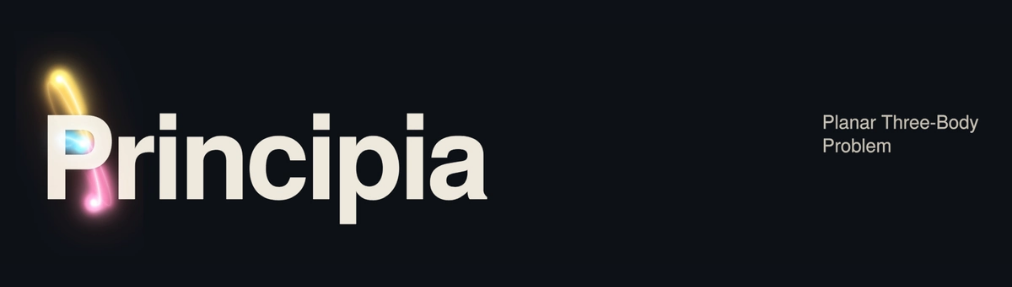
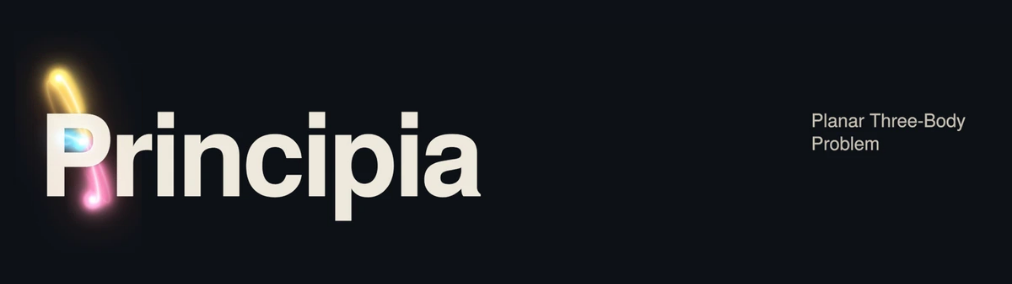
Brand: title WebPs rebuilt with equal insets (page-colour border checked in the encoder), README renders at three widths and three page colours

diff --git a/brand/code/build.py b/brand/code/build.py
@@ -183,8 +183,8 @@ def _encode_job(args):
     import encode
     kind, a = args
     if kind == 'webp':
-        frames, fps, dst = a
-        return dst, encode.webp(frames, fps, 15, WEBP_WIDTH, dst, limit=WEBP_LIMIT)
+        frames, fps, dst, border = a
+        return dst, encode.webp(frames, fps, 15, WEBP_WIDTH, dst, limit=WEBP_LIMIT, border=border)
     getattr(encode, kind)(*a)
     return None, None
 
@@ -223,12 +223,12 @@ def part_videos(out, only=None, workers=None):
                         ('webm', (frames, fps, f'{dst}/{stem}-transparent.webm')),
                         ('gif', (frames, fps, w, h, theme, gfps, gw, f'{dst}/{stem}.gif'))]
         if 'subtitle' in v:
-            encode_jobs.append(('webp', (frames + '-padded', fps, f'{dst}/{stem}.webp')))
+            encode_jobs.append(('webp', (frames + '-padded', fps, f'{dst}/{stem}.webp', None)))
     for name, v, bd in GITHUB:
         if sel(name):
             frames = os.path.join(out, 'work', 'frames', f'title-2d-subtitle-{name}')
             os.makedirs(os.path.join(out, 'titles'), exist_ok=True)
-            encode_jobs.append(('webp', (frames, 30, os.path.join(out, 'titles', f'principia-title-2d-subtitle-{name}.webp'))))
+            encode_jobs.append(('webp', (frames, 30, os.path.join(out, 'titles', f'principia-title-2d-subtitle-{name}.webp'), (tuple(int(bd.lstrip('#')[i:i + 2], 16) for i in (0, 2, 4)), 1))))
     log('encoding', len(encode_jobs), 'files')
     with ProcessPoolExecutor(workers) as ex:
         for dst, res in ex.map(_encode_job, encode_jobs):

diff --git a/brand/code/encode.py b/brand/code/encode.py
@@ -39,7 +39,7 @@ def gif(frames, fps, w, h, theme, gif_fps, gif_w, out):
     _run(_inputs(frames, fps, w, h, BG[theme]) + ['-filter_complex', flt, '-loop', '0', out])
 
 
-def webp(frames, fps, out_fps, width, out, limit=None, quality=None):
+def webp(frames, fps, out_fps, width, out, limit=None, quality=None, border=None):
     """Animated lossy WebP written with Pillow (ffmpeg's libwebp_anim cannot lower the alpha quality, and
     losslessly kept alpha alone is more than 4 MB). Colour and alpha share one quality number. With limit
     (bytes) the highest quality (1 to 100) whose file fits is used; the result is (quality, bytes).
@@ -70,4 +70,14 @@ def webp(frames, fps, out_fps, width, out, limit=None, quality=None):
             hi = q - 1
     if best is None:
         return 1, write(1)
-    return best[0], write(best[0])
+    q = best[0]
+    if border:                       # lossy colour can drift by a level or two: go down until the border is within tolerance
+        import compare
+        colour, tol = border
+        while q > 1:
+            size = write(q)
+            worst, _ = compare.border_check(compare.webp_frames(out), colour, tol)
+            if worst <= tol:
+                return q, size
+            q -= 1
+    return q, write(q)

diff --git a/brand/code/readme_align.py b/brand/code/readme_align.py
@@ -120,6 +120,9 @@ async def run(out, root, widths, times, hero_width):
                     dl = tb['x'] + xp * sx - hb['x']
                     dr = (hb['x'] + hb['width']) - (tb['x'] + xs * sx)
                     rows.append((width, name, k, dl, dr, ''))
+                blk = os.path.join(out, f'block-{width}-{name}.png')          # the whole picture block: title above, banner below
+                hb2 = await hero.bounding_box()
+                await pg.screenshot(path=blk, clip={'x': 0, 'y': 0, 'width': width, 'height': hb2['y'] + hb2['height'] + 8})
                 await ctx.close()
         await b.close()
     return rows

diff --git a/brand/README.md b/brand/README.md
@@ -62,7 +62,11 @@ Every animation is one seamless 36-second loop, rendered frame by frame in Chrom
 - **GIF:** also on its background, because GIF transparency is all-or-nothing and can't carry a soft glow. They are smaller and slower: titles are 800 px wide at 15 fps, and icons are 400 px at 12 fps (every second frame).
 - **WebP (subtitle title only):** `principia-title-2d-subtitle-{dark,light}.webp` keep the transparent background (alpha); `principia-title-2d-subtitle-github-{dark,light}.webp` are drawn on GitHub's own page colours, `#0d1117` and `#ffffff`, so the glow and the ink-style mixing are computed on that colour and no box shows. They are 1200 px wide at 15 fps, lossy, with the quality set to the highest that keeps each file under 4 MB (`webp-settings.json` in a rebuild records it). The page-colour ones carry a 12 px margin of the page colour so that the outer border is exactly that colour.
 
-The repository README shows the page-colour WebPs under `prefers-color-scheme`, and the title SVGs under `prefers-reduced-motion`.
+The repository README shows the page-colour WebPs under `prefers-color-scheme`, and `principia-title-still-{dark,light}.svg` under `prefers-reduced-motion`.
+
+**Lining the title up with the banner.** The title's frame has margins for the glow, so with both at full width the P's stem sat about 48 px to the right of the banner's left edge at 1012 px and the subtitle ended about 34 px short of its right edge. `titlelayout.py` measures where the stem and the end of the subtitle sit in the frame (65 px in, 42 px from the right edge), pads the side with less margin so both insets are equal (never crops: the glow reaches the edge), and gives the banner `width = (frame - 2 inset) / frame` as a percentage (90.7 %). Every title the README can show (both page-colour WebPs, both transparent WebPs, both stills) has that same inset fraction. `readme_align.py` renders the README at 700, 1012 and 1280 px and reads the stem and subtitle edges from the pixels: within 1 px of the banner's edges in every variant (the control with the old full-width banner reads 47 px).
+
+**Where the removed files are.** The MP4 and WebM files of the animated icons and titles are no longer in git (the GIFs stay: no rebuilt GIF met its criterion): they are on the release https://github.com/Ma1achy/Principia/releases/tag/brand-media-2026-11-25 and `build.py --part videos` makes them again. To run `compare.py` or `controls.py` against the originals, put the release files back at their paths in a copy of `brand/` and pass that copy as the reference.
 
 ## Rebuilding
 
